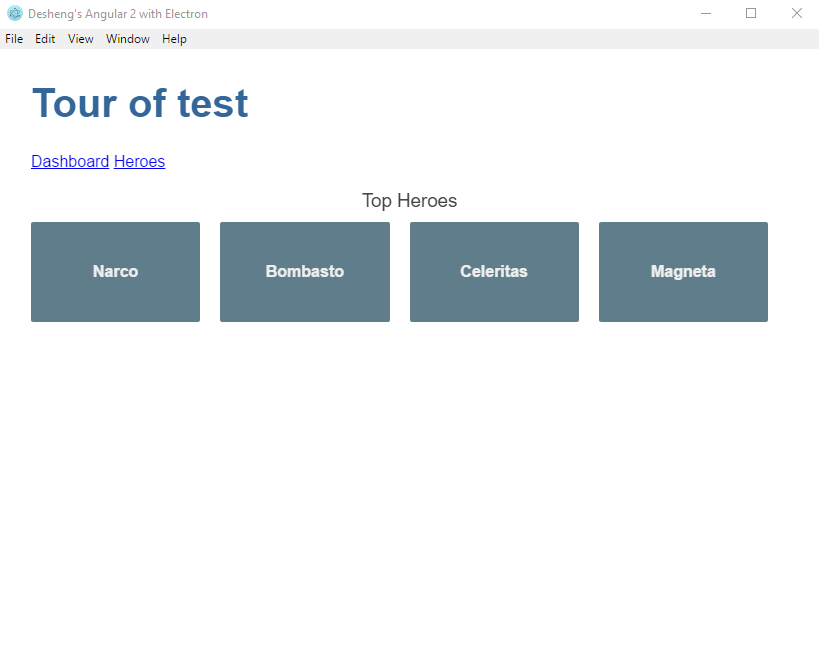
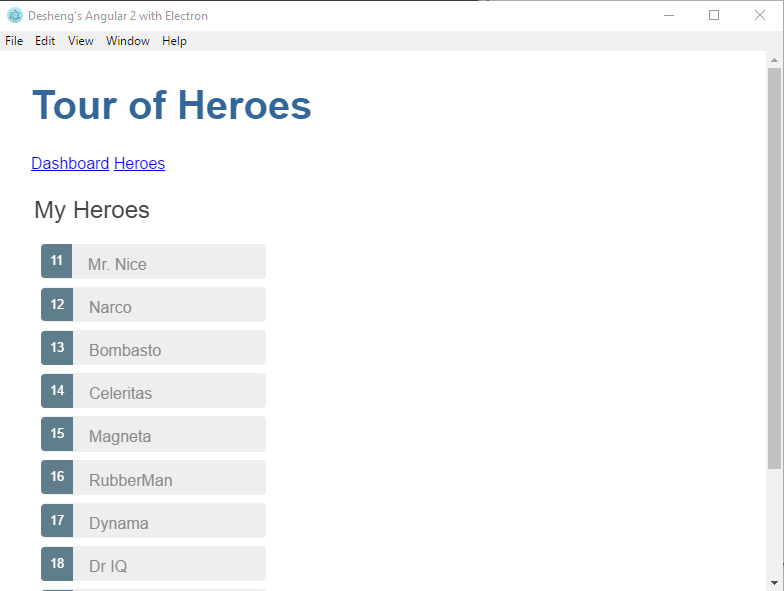
using hash in routing and express server is not needed anymore

diff --git a/main.js b/main.js
@@ -1,5 +1,5 @@
 const electron = require('electron');
-const server = require("./server");
+//const server = require("./server");
 // Module to control application life.
 const app = electron.app;
 // Module to create native browser window.
@@ -16,9 +16,9 @@ function createWindow () {
   mainWindow = new BrowserWindow({width: 800, height: 600})
 
   // and load the index.html of the app.
-  //mainWindow.loadURL(`file://${__dirname}/index.html`)
+  mainWindow.loadURL(`file://${__dirname}/index.html`)
   //mainWindow.loadURL('file://' + __dirname + '/index.html');
-  mainWindow.loadURL('http://localhost:3333/');
+  //mainWindow.loadURL('http://localhost:3333/');
 
   
   // Open the DevTools.

diff --git a/index.html b/index.html
@@ -19,7 +19,8 @@
       System.import('app').catch(function(err){ console.error(err); });
     </script>
     <link rel="stylesheet" href="styles.css">
-    <base href="/">
+    <!--<base href="/">-->
+    <base href="">
 </head>
 
 <!-- 3. Display the application -->
@@ -34,7 +35,7 @@
 
 <script>
     // You can also require other files to run in this process
-    //require('./renderer.js')
+    require('./renderer.js')
 </script>
 
 </html>

diff --git a/src/app/app-routing.module.ts b/src/app/app-routing.module.ts
@@ -10,7 +10,7 @@ const routes: Routes = [
   { path: 'heroes',     component: HeroesComponent }
 ];
 @NgModule({
-  imports: [ RouterModule.forRoot(routes) ],
+  imports: [ RouterModule.forRoot(routes, { useHash: true }) ],
   exports: [ RouterModule ]
 })
 export class AppRoutingModule {}

diff --git a/server.js b/server.js
@@ -13,4 +13,8 @@ app.get('/dashboard', function (req, res) {
 app.get('/heroes', function (req, res) {
     res.sendfile(__dirname + '/index.html');
 });
+app.get('/detail/:id', function (req, res) {
+    res.sendfile(__dirname + '/index.html');
+});
+
 app.listen(3333);

diff --git a/src/app/app.component.ts b/src/app/app.component.ts
@@ -18,7 +18,7 @@ import { Hero } from "./db/hero";
 
 })
 export class AppComponent {
-    title = "Tour of test";
+    title = "Tour of Heroes";
 
 
 }
